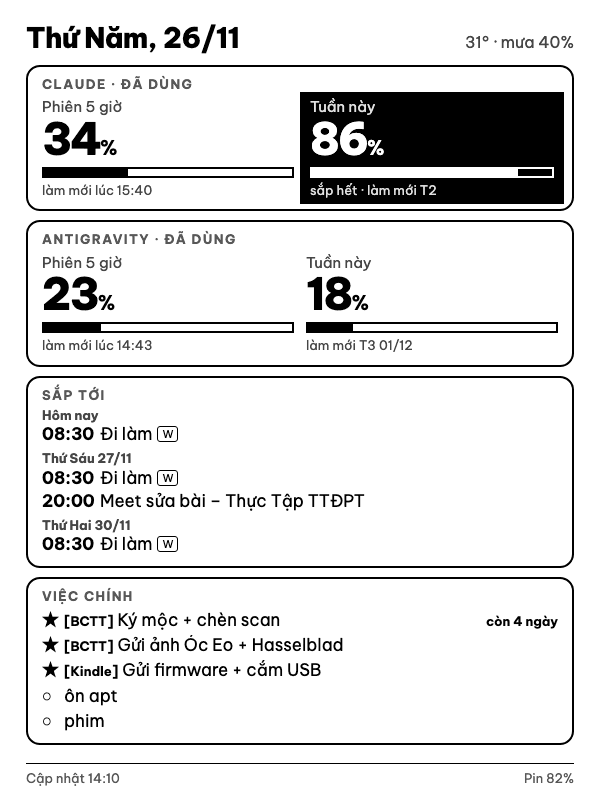
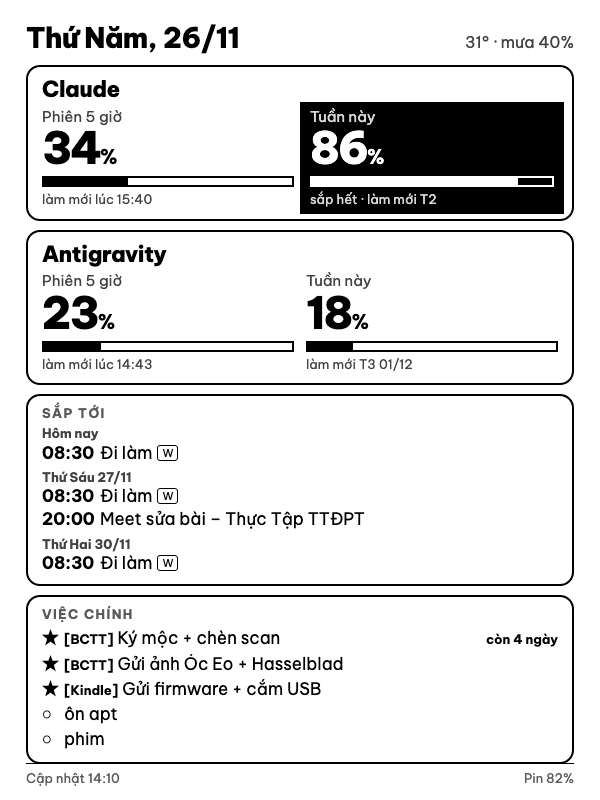
Mẫu A: tên Claude/Antigravity đậm to; luật gộp + đồng bộ việc Bộ Não ↔ Google Tasks

Changed region(s): [[0.03, 0.0938, 0.96, 0.9375], [0.93, 0.9062, 0.96, 0.9688]]

diff --git a/mau/mau.html b/mau/mau.html
@@ -13,7 +13,8 @@ body{font-family:"Be Vietnam Pro",sans-serif;font-size:17px;line-height:1.25;pad
 .meta{font-size:16px;color:#444}
 .card{border:2.5px solid #000;border-radius:14px;padding:9px 14px;margin-top:9px}
 .label{font-size:13px;font-weight:700;letter-spacing:1.4px;text-transform:uppercase;color:#555;margin-bottom:4px}
-/* thẻ hạn mức: giống bản đầu */
+/* thẻ hạn mức: giống bản đầu, tên công cụ đậm to để phân biệt */
+.brand{font-size:22px;font-weight:800;letter-spacing:-.3px;margin-bottom:2px}
 .usage{display:grid;grid-template-columns:1fr 1fr;gap:12px}
 .u{padding:2px 0}
 .u .name{font-size:15px;color:#444}
@@ -43,7 +44,7 @@ body{font-family:"Be Vietnam Pro",sans-serif;font-size:17px;line-height:1.25;pad
 <div class="head"><div class="date">Thứ Năm, 26/11</div><div class="meta">31° · mưa 40%</div></div>
 
 <div class="card">
-  <div class="label">Claude · đã dùng</div>
+  <div class="brand">Claude</div>
   <div class="usage">
     <div class="u"><div class="name">Phiên 5 giờ</div><div class="pct">34<small>%</small></div><div class="bar"><i style="width:34%"></i></div><div class="sub">làm mới lúc 15:40</div></div>
     <div class="u warn"><div class="name">Tuần này</div><div class="pct">86<small>%</small></div><div class="bar"><i style="width:86%"></i></div><div class="sub">sắp hết · làm mới T2</div></div>
@@ -51,7 +52,7 @@ body{font-family:"Be Vietnam Pro",sans-serif;font-size:17px;line-height:1.25;pad
 </div>
 
 <div class="card">
-  <div class="label">Antigravity · đã dùng</div>
+  <div class="brand">Antigravity</div>
   <div class="usage">
     <div class="u"><div class="name">Phiên 5 giờ</div><div class="pct">23<small>%</small></div><div class="bar"><i style="width:23%"></i></div><div class="sub">làm mới lúc 14:43</div></div>
     <div class="u"><div class="name">Tuần này</div><div class="pct">18<small>%</small></div><div class="bar"><i style="width:18%"></i></div><div class="sub">làm mới T3 01/12</div></div>

diff --git a/KE-HOACH.md b/KE-HOACH.md
@@ -16,6 +16,9 @@ Giao diện: **mẫu A** (`mau/mau.html`), thẻ bo góc; lịch + việc chữ 
    - Antigravity: máy chủ cục bộ của app (`RetrieveUserQuotaSummary`, chỉ khi app mở), lấy nhóm dùng nhiều nhất, không ghi tên model. Hỏng thì ẩn ô.
 2. **Sự kiện sắp tới**: ~3 ngày, tối đa 6 dòng, ưu tiên ngày gần, tràn thì "+N sự kiện nữa". Lịch: chính + Work + Study + Ngày lễ (ký hiệu nhỏ). Chỉ giờ + tiêu đề, không mô tả/link/người.
 3. **Việc** (tối đa 5 dòng): 3 việc ★ từ mục `## Việc ngắn` của `01_Tien_Do_Du_An.md` (không có ★ thì 3 việc hạn gần nhất) + 2 việc Google Tasks mặc định (ẩn việc xong). Nhãn dự án `[BCTT]` `[Video]` `[Tài chính]` `[Não]` `[Kindle]`, dự án mới cùng kiểu. Việc sắp đến hạn luôn xếp đầu ("còn N ngày"). Việc Bộ Não không bao giờ "trễ": qua hạn tự ẩn; không hạn thì tự ẩn sau 7 ngày kể từ ngày ghi (dòng có `+dd/mm`); AI đầu phiên hỏi gọn việc ★ cũ "xong chưa?". Chỉ Google Tasks quá hạn mới nền đen.
+   - **Trùng Bộ Não ↔ Tasks** (so tên đã bỏ dấu, nhãn, ngày; giống ≥ 60% từ): gộp thành 1 dòng, dùng chữ + nhãn + hạn của Bộ Não.
+   - **Tích xong trên Google Tasks** → Kindle ẩn ngay việc Bộ Não trùng; lần mở phiên AI tới, script đầu phiên xóa dòng đó khỏi `## Việc ngắn` (0 token). AI xóa việc trong Bộ Não → tích xong việc Tasks trùng (web app cần quyền sửa Tasks).
+   - Sự kiện lặp ("Đi làm") vẫn hiện bình thường.
 - Ô phụ: thứ + ngày (không âm lịch), thời tiết TP.HCM (Open-Meteo: nhiệt độ + khả năng mưa), pin Kindle, giờ cập nhật. Không hiện giờ phút hiện tại.
 
 ## Màn ban đêm (00h–07h)
